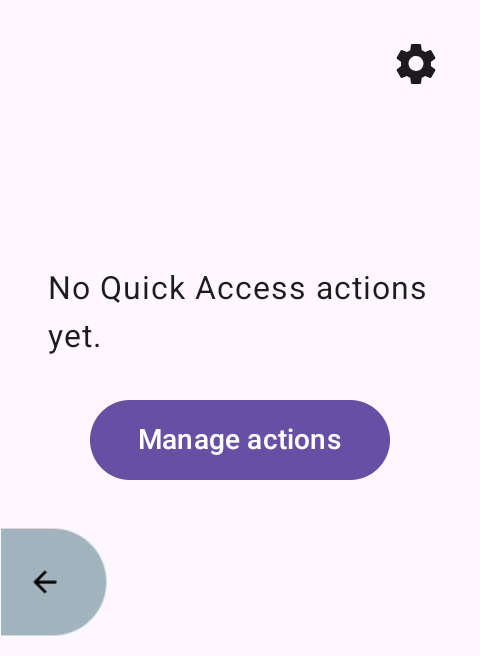
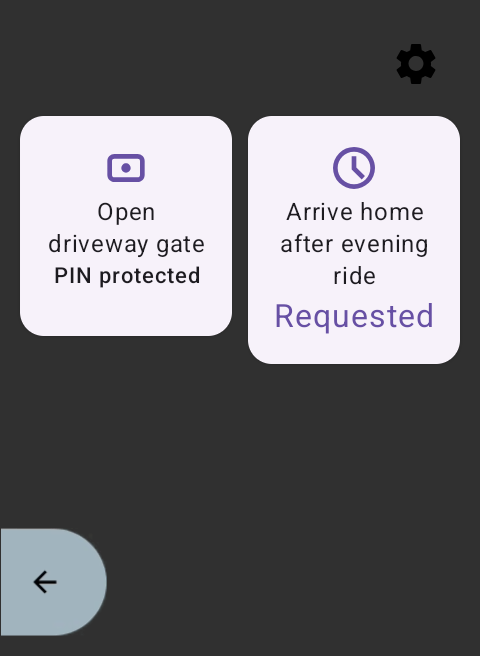
Document button and scene support

diff --git a/docs/current-implementation.md b/docs/current-implementation.md
@@ -38,10 +38,13 @@ useful record of the intended scope but does not capture all later UX changes.
   until a fresh entity response is available. Long names can use up to three
   lines before ellipsizing.
 - Tiles use small bundled icons selected from the Home Assistant icon/domain:
-  light, script, lock, cover, switch, or a generic entity fallback. The same
-  icon treatment is used in the entity chooser and configured-action list.
-- Scripts show only their name and icon; they do not show a state or an extra
-  “Run script” label.
+  light, script, button, scene, lock, cover, switch, or a generic entity
+  fallback. The same icon treatment is used in the entity chooser and
+  configured-action list.
+- Scripts, buttons, and scenes show only their name and icon; they do not show
+  a state or an additional action label. Buttons invoke `button.press` and
+  scenes invoke `scene.turn_on`; both report a successful request as
+  **Requested**, without claiming completion.
 - Lights and switches are represented as one **Toggle** action rather than
   separate turn-on and turn-off actions.
 - Locks and covers are added as one state-aware control per entity rather than
@@ -58,8 +61,9 @@ useful record of the intended scope but does not capture all later UX changes.
 - Lock and cover controls refresh their state immediately before resolving an
   operation, then poll Home Assistant after execution to update the visible
   state. Cover Stop performs a best-effort state refresh without claiming
-  physical completion. Toggle actions wait for a changed state. Scripts
-  deliberately do not display state.
+  physical completion. Toggle actions wait for a changed state. Stateless
+  scripts, buttons, and scenes deliberately do not display state or request a
+  pre-action refresh.
 - Configured actions store the Home Assistant friendly name and icon and are
   refreshed when discovery finds a newer entity definition.
 
@@ -75,10 +79,11 @@ useful record of the intended scope but does not capture all later UX changes.
   failure is shown on its own and is not presented as a successful empty
   result.
 - Selecting an entity opens an action picker. Locks, covers, lights, switches,
-  and scripts each have one Add action; users do not choose separate lock or
-  cover operations. Existing configured actions can be removed or reordered
-  from the management screen. After adding a control, users remain on that
-  screen to add more; its **Done** button returns to Quick Access.
+  scripts, buttons, and scenes each have one Add action; users do not choose
+  separate lock or cover operations. Existing configured actions can be
+  removed or reordered from the management screen. After adding a control,
+  users remain on that screen to add more; its **Done** button returns to Quick
+  Access.
 
 ## PIN protection
 

diff --git a/README.md b/README.md
@@ -8,7 +8,8 @@ Karoo Home Assistant Companion is a focused Home Assistant remote for the Hammer
 
 - Connect the app to your existing Home Assistant.
 - Keep your favorite home controls together for quick access.
-- Run scripts and control locks, covers, lights, and switches.
+- Run scripts, press buttons, activate scenes, and control locks, covers,
+  lights, and switches.
 - Choose how the app accesses Home Assistant based on your needs: connect only when Karoo has Wi-Fi, or allow your paired phone to provide network access when Wi-Fi is unavailable.
 - Protect the whole app or selected controls with a PIN.
 - Confirm important actions before unlocking a door or opening a gate.
@@ -23,6 +24,7 @@ Karoo Home Assistant Companion is a focused Home Assistant remote for the Hammer
 ## Screenshots
 
 ![Quick Access](screenshots/emulator-karoo-480x800/main-empty-app-only.png)
+![Button action picker](screenshots/emulator-karoo-480x800/button-action-picker-app-only.png)
 ![Set up Home Assistant](screenshots/emulator-karoo-480x800/onboarding-app-only.png)
 ![Settings](screenshots/emulator-karoo-480x800/settings-connected-app-only.png)
 

diff --git a/docs/roadmap.md b/docs/roadmap.md
@@ -1,9 +1,5 @@
 # Roadmap
 
-## [Buttons and scenes](features/buttons-and-scenes.md)
-
-Add Home Assistant button and scene entities as deliberate one-tap Quick Access controls.
-
 ## [Cover position (reporting and setting)](features/cover-position.md)
 
 Show a cover's reported position and let the rider request a specific position without replacing the existing open, close, and stop controls.

diff --git a/docs/features/buttons-and-scenes.md b/docs/features/buttons-and-scenes.md
@@ -1,5 +1,9 @@
 # Buttons and scenes
 
+> **Implementation status (2026-08-21):** Implemented in Quick Access. Buttons
+> invoke `button.press` and scenes invoke `scene.turn_on` as stateless,
+> deliberate controls.
+
 ## Goal
 
 Allow riders to add Home Assistant button and scene entities to Quick Access as deliberate one-tap controls.
